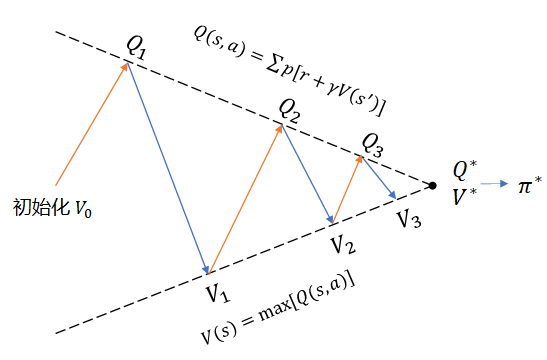
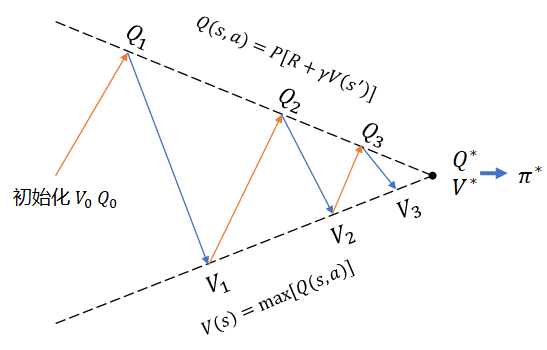
update

diff --git a/基础教程/A7-强化学习/90-穿越虫洞问题 - 从动作价值到最优策略/7-价值迭代.md b/基础教程/A7-强化学习/90-穿越虫洞问题 - 从动作价值到最优策略/7-价值迭代.md
@@ -225,47 +225,84 @@ LEFT, UP, RIGHT, DOWN  = 0, 1, 2, 3
 
 ### 9.7.3 收敛证明
 
+算法 9.7 的示意图如图 9.7.3 所示。
 
 <center>
 <img src="./img/ValueIteration.png">
 
-图 9.7.2 价值迭代示意图
+图 9.7.3 价值迭代示意图
 </center>
 
+算法执行步骤如下：
+
+1. 初始化 V，Q 为 0，不妨命名它们为 $V_0(s), Q_0(s,a)$；
+2. 用式（9.6.1）根据 $V_0$ 计算动作价值得到 $Q_1(s,a)=P^a_{ss'}[R^a_{ss'}+\gamma V_0(s')]$；
+3. 用式（9.6.3）根据 $Q_1$ 取最大值得到 $V_1(s)=\max_a Q_1(s,a)$；
+4. 用 $V_0$ 与 $V_1$ 比较，看看是否收敛（二者的差是否很小）；
+4. 用式（9.6.1）根据 $V_1$ 计算动作价值得到 $Q_2$；
+5. 用式（9.6.3）根据 $Q_1$ 取最大值得到 $V_2$；
+6. 用 $V_1$ 与 $V_2$ 比较，看看是否收敛（二者的差是否很小）；
+......
+
+假设一共迭代了 $k$ 次，并判定为收敛，就会得到最优价值函数值 $V_*=V_k, Q_*=Q_k$，然后再从 $Q_*$ 中取出 $\pi_*(s)=\argmax_a Q_*(s,a)$ 即可得到最优策略。
+
+在图 9.7.3 中，用两条虚线示意性地表示了 $V_k,Q_k$ 的前进方向，在实际问题中，当然不可能是以直线的方式，而是有一定的上下波动。最后两者交汇于一点，可以解释为 $v_*(s)=\max_a q_*(s,a)$。如果再继续迭代的话，两条虚线会合并成一条虚线继续向右侧延申，但是已经没有什么意义了。
+
+为什么这种方法可以收敛到最优价值策略呢？
+
+由 $q_\pi$ 的定义式（8.4.2）有：
 
 $$
 q_\pi(s,a) \doteq \mathbb E[ R_{t+1} + \gamma v_\pi(S_{t+1}) \mid S_t=s,A_t=a ] \tag{9.7.1}
 $$
 
+而一个贪心策略 $\pi'$ 的定义为：
+
 $$
-q_\pi(s,\pi'(s))=\max_{a \in A} q_\pi(s,a) \ge q_\pi(s,\pi(s))=v_\pi(s) \tag{9.7.2}
+\begin{aligned}
+\pi'(s) & \doteq \argmax_a q_\pi(s,a)
+\\
+&=\argmax_a \mathbb E[ R_{t+1} + \gamma v_\pi(S_{t+1}) \mid S_t=s,A_t=a ]
+\end{aligned}
+\tag{9.7.2}
 $$
+
+其含义是按当前策略 $\pi$ 计算出 $q_\pi(s,a)$ 后，取其中的最大值便会得到 $\pi'$。然后计算新的 $q_\pi(s,\pi'(s))$：
+
+$$
+q_\pi(s,\pi'(s))=\max_{a \in A} q_\pi(s,a) \ge q_\pi(s,\pi(s)) \ge v_\pi(s) \tag{9.7.3}
+$$
+
+上式的含义是，由于 $\pi'(s)$ 为贪心策略，$q_\pi(s,\pi'(s))$ 为 $q_\pi(s,a)$ 中的最大值，所以一定会大于任意一个动作的价值 $q_\pi(s,\pi(s))$。再根据式（8.4.3）：$v_\pi(s)=\sum_{a \in A(s)} \pi(a | s) q_\pi(s,a)$，所以 $v_\pi(s)$ 一定会小于等于 $q_\pi(s,\pi(s))$。在有些资料中把最后一个大于等于号写成了等于号，笔者认为不够严谨。
+
+接下来，根据式（9.7.2）反向应用，再把式（9.7.1）和式（9.7.2）本身不断地代入，得到连续的不等式如下：
 
 $$
 \begin{aligned}
 v_\pi(s) & \le q_\pi(s,\pi'(s))
 \\
-(式9.7.1 \to)&=\mathbb E [ R_{t+1} + \gamma v_\pi(S_{t+1}) \mid S_t=s,A_t=\pi'(s)]
+(式9.7.1 \to)&=\mathbb E \big [ R_{t+1} + \gamma v_\pi(S_{t+1}) \mid S_t=s,A_t=\pi'(s)\big]
 \\
-&=\mathbb E_{\pi'} [ R_{t+1} + \gamma v_\pi(S_{t+1}) \mid S_t=s]
+(消去A_t条件\to)&=\mathbb E_{\pi'} \big[ R_{t+1} + \gamma v_\pi(S_{t+1}) \mid S_t=s\big]
 \\
-(式9.7.2 \to)& \le \mathbb E_{\pi'} [ R_{t+1} + \gamma q_\pi(S_{t+1},\pi'(S_{t+1})) \mid S_t=s]
+(式9.7.3 \to)& \le \mathbb E_{\pi'} \big[ R_{t+1} + \gamma q_\pi(S_{t+1},\pi'(S_{t+1})) \mid S_t=s]
 \\
-(式9.7.1 \to)&=\mathbb E_{\pi'} [ R_{t+1} + \gamma \mathbb E_{\pi'}[R_{t+2}+\gamma v_\pi(S_{t+2})|S_{t+1},A_{t+1}=\pi'(S_{t+1})] \mid S_t=s]
+(式9.7.1 \to)&=\mathbb E_{\pi'} \big[ R_{t+1} + \gamma \mathbb E_{\pi'}[R_{t+2}+\gamma v_\pi(S_{t+2})|S_{t+1},A_{t+1}=\pi'(S_{t+1})] \mid S_t=s\big]
 \\
-&=\mathbb E_{\pi'} [ R_{t+1} + \gamma R_{t+2} + \gamma^2 v_\pi(S_{t+2}) \mid S_t=s]
+(消去A_t条件\to)&=\mathbb E_{\pi'} \big[ R_{t+1} + \gamma R_{t+2} + \gamma^2 v_\pi(S_{t+2}) \mid S_t=s\big]
 \\
-& \le \mathbb E_{\pi'} [ R_{t+1} + \gamma R_{t+2} + \gamma^2 R_{t+3} + \gamma^3 v_\pi(S_{t+3}) \mid S_t=s]
+(式9.7.3 \to)& \le \mathbb E_{\pi'} \big[ R_{t+1} + \gamma R_{t+2} + \gamma^2 R_{t+3} + \gamma^3 v_\pi(S_{t+3}) \mid S_t=s\big]
 \\
 & \vdots
 \\
-& \le \mathbb E_{\pi'} [ R_{t+1} + \gamma R_{t+2} + \gamma^2 R_{t+3} + \gamma^3R_{t+4}+\cdots \mid S_t=s]
+& \le \mathbb E_{\pi'} \big[ R_{t+1} + \gamma R_{t+2} + \gamma^2 R_{t+3} + \gamma^3R_{t+4}+\cdots \mid S_t=s\big]
 \\
 &=v_{\pi'}(s)
 \end{aligned}
-\tag{9.7.3}
+\tag{9.7.4}
 $$
 
+结论是 $v_\pi(s) \le v_{\pi'}(s)$，即旧策略 $\pi$ 下的状态价值函数会小于等于新策略 $\pi'$ 下的状态价值函数，这样的话，不断地在每个状态上采用新策略，整体的策略（组）就会不断趋近于最优策略，并最终收敛。
 
 ### 9.7.4 二级回溯
 

diff --git a/基础教程/A7-强化学习/80-射击气球问题 - 从状态价值到动作价值/4-贝尔曼期望方程.md b/基础教程/A7-强化学习/80-射击气球问题 - 从状态价值到动作价值/4-贝尔曼期望方程.md
@@ -40,7 +40,7 @@
 
 MDP 中的动作价值函数，可以简称为 **Q 函数**，用 $q_\pi(s,a)$ 表示在策略 $\pi(a|s)$ 下的动作 $a$ 的价值。它的实际含义，和马尔科夫奖励过程过程中的状态价值函数 MRP-V 是可以类比的，甚至可以说是相等的。以上说法听上去比较奇怪：为什么是 $Q_\pi$ 函数和 MRP-V 函数类比，而不是 8.4.3 节中要讲的 $V_\pi$ 函数和 MRP-V 函数类比呢？这与它们在的模型中的位置以及定义有关。
 
-先回忆一下在马尔可夫奖励过程中学习过的状态价值函数，温故而知新。
+先回忆一下在马尔可夫奖励过程中学习过的状态价值函数式（7.3.13），温故而知新。
 
 $$
 \begin{aligned}
@@ -57,7 +57,7 @@ v(s) &\doteq \mathbb E [G_t \mid S_t = s]
 \tag{8.4.1}
 $$
 
-式（8.4.1）对应了图 8.4.1 中的左侧部分。再比较图 8.4.1 中左侧和右侧的黄色虚线框内的部分，可以说除了符号定义不同，其它都是相同的，包括位置和含义。
+式（8.4.1）即式（7.3.13），它对应了图 8.4.1 中的左侧部分。再比较图 8.4.1 中左侧和右侧的黄色虚线框内的部分，可以说除了符号定义不同，其它都是相同的，包括位置和含义。
 
 表 8.4.2 比较图 8.4.1 中的左右两部分的黄色虚线框内的部分
 
@@ -77,14 +77,18 @@ $$
 <center>
 <img src="./img/mdp-Q.png">
 
-图 8.4.2 马尔科夫决策过程的 Q 函数模型
+图 8.4.2 马尔科夫决策过程的 $Q$ 函数模型
 </center>
 
-在图 8.4.2 中，我们绘制出了 Q 函数模型所需要的所有元素（实际上是图 8.3.4 状态转移模型的一个补充），定义如下：
+在图 8.4.2 中，我们绘制出了 $Q$ 函数模型所需要的所有元素（实际上是图 8.3.4 状态转移模型的一个补充），其中的 $V_\pi(s')$ 也可以写成 $V_\pi(S_{t+1})$，折扣 $\gamma$ 没有在图中画出来。
+
+$Q$ 函数定义如下：
 
 $$
 \begin{aligned}
 q_\pi(s,a) & \doteq \mathbb E [G_t \mid S_t = s, A_t=a]
+\\
+&=\mathbb E[ R_{t+1}+\gamma v_\pi(S_{t+1}) \mid S_t=s, A_t=a]
 \\
 &=\mathbb E [R_{t+1}\mid S_t=s, A_t=a] + \gamma \mathbb E[G_{t+1}\mid S_t=s, A_t=a]
 \end{aligned}
@@ -98,6 +102,8 @@ $$
 $$
 \begin{aligned}
 q_\pi(s,a) & \doteq \mathbb E [G_t \mid S_t = s, A_t=a]
+\\
+&=\mathbb E[ R_{t+1}+\gamma v_\pi(S_{t+1}) \mid S_t=s, A_t=a]
 \\
 &=\mathbb E [R_{t+1}\mid S_t=s, A_t=a] + \gamma \mathbb E[G_{t+1}\mid S_t=s, A_t=a]
 \\
@@ -122,12 +128,12 @@ $$
 表 8.4.3 表格形式的 Q 函数
 
 |状态 $\to$ 动作|$a_0$|$a_1$|$a_2$|$\cdots$|
-|:-:|-|-|-|-|
-|$s_0$|$q_\pi(s_0,a_0)$|$q_\pi(s_0,a_1)$|$q_\pi(s_0,a_2)$||
-|$s_1$|$q_\pi(s_1,a_0)$|$q_\pi(s_1,a_1)$|$q_\pi(s_1,a_2)$||
-|$s_2$|$q_\pi(s_2,a_0)$|$q_\pi(s_2,a_1)$|$q_\pi(s_2,a_2)$||
-|$s_3$|$q_\pi(s_3,a_0)$|$q_\pi(s_3,a_1)$|$q_\pi(s_3,a_2)$||
-|$\vdots$|||||
+|:-:|:-:|:-:|:-:|-|
+|$s_0$|$q_\pi(s_0,a_0)$|$q_\pi(s_0,a_1)$|$q_\pi(s_0,a_2)$|$\cdots$|
+|$s_1$|$q_\pi(s_1,a_0)$|$q_\pi(s_1,a_1)$|$q_\pi(s_1,a_2)$|$\cdots$|
+|$s_2$|$q_\pi(s_2,a_0)$|$q_\pi(s_2,a_1)$|$q_\pi(s_2,a_2)$|$\cdots$|
+|$s_3$|$q_\pi(s_3,a_0)$|$q_\pi(s_3,a_1)$|$q_\pi(s_3,a_2)$|$\cdots$|
+|$\vdots$|$\vdots$|$\vdots$|$\vdots$||
 
 该表中会填满数字，从而可以进行横向比较，即在某个状态 $s$ 下的各个动作的价值大小，进而评价策略 $\pi$ 的优略。不同的 $s$ 下的动作是不可比的。
 
@@ -175,10 +181,12 @@ v_\pi(s) &\doteq \mathbb E [G_t \mid S_t=s]
 \\
 &=\sum_{a \in A(s)} \pi(a | s) q_\pi(s,a)
 \\
-&=\pi \cdot Q_\pi(s,a)
+&=\pi(s) \cdot Q_\pi(s)
 \end{aligned}
 \tag{续8.4.3}
 $$
+
+其中 $\pi(s)$ 和 $Q_\pi(s)$ 都代表一个矢量，即适量点乘得到标量 $v_\pi(s)$。
 
 到此为止，我们在假设已知下游 V 函数的情况下，得到了 Q 函数的表达式（8.4.2），又在假设已知下游 Q 函数的情况下，得到了 V 函数的表达式（8.4.3）。读者不禁会产生疑问，这不是就如同武侠小说中所描述的那样：只见那位大侠原地跳起一丈多高，然后在空中左脚（V 函数）一蹬右脚（Q 函数）面，使了一个梯云纵，又上窜了一丈多高......
 

diff --git a/基础教程/A7-强化学习/70-开发流程问题 - 从价值估算到价值计算/3-贝尔曼方程推导过程.md b/基础教程/A7-强化学习/70-开发流程问题 - 从价值估算到价值计算/3-贝尔曼方程推导过程.md
@@ -182,16 +182,16 @@ $$
 
 $$
 \begin{aligned}
-v(s_a)&=\mathbb E \big [G_a|S_t=s_a] & \in v(s)
+v(s_a)&=\mathbb E \big [G_a|S_t=s_a] & s_a \in v(s)
 \\
-v(s_b)&=\mathbb E \big [G_b|S_{t+1}=s_b] & \in v(s')
+v(s_b)&=\mathbb E \big [G_b|S_{t+1}=s_b] & s_b \in v(s')
 \\
-v(s_c)&=\mathbb E \big [G_c|S_{t+1}=s_c] & \in v(s')
+v(s_c)&=\mathbb E \big [G_c|S_{t+1}=s_c] & s_c \in v(s')
 \end{aligned}
 \tag{7.3.10}
 $$
 
-不同时刻状态的价值函数又可以抽象为：
+下一时刻 $s'$ 状态的价值函数又可以抽象为：
 
 $$
 V(s')=[v(s_b),v(s_c)] \tag{7.3.11}
